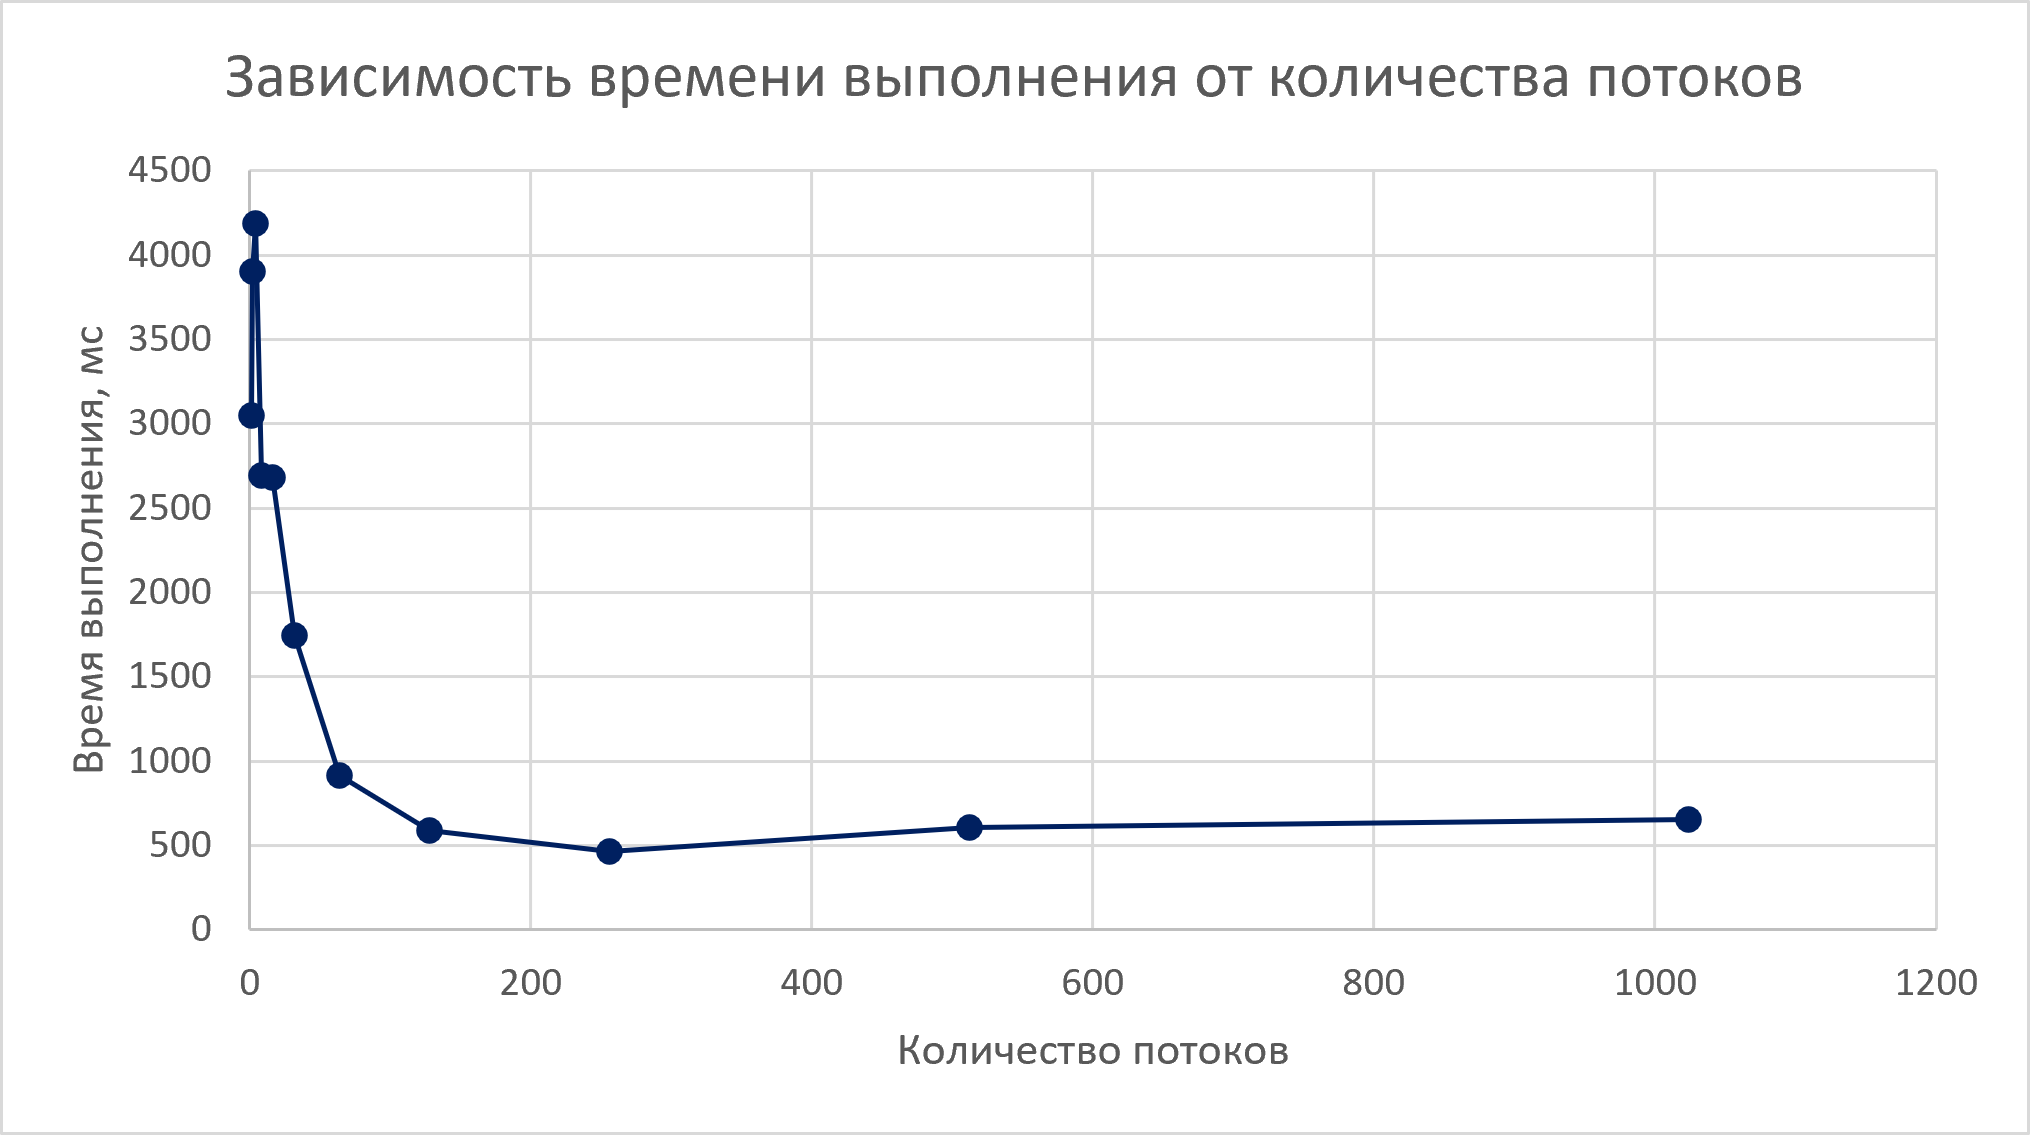
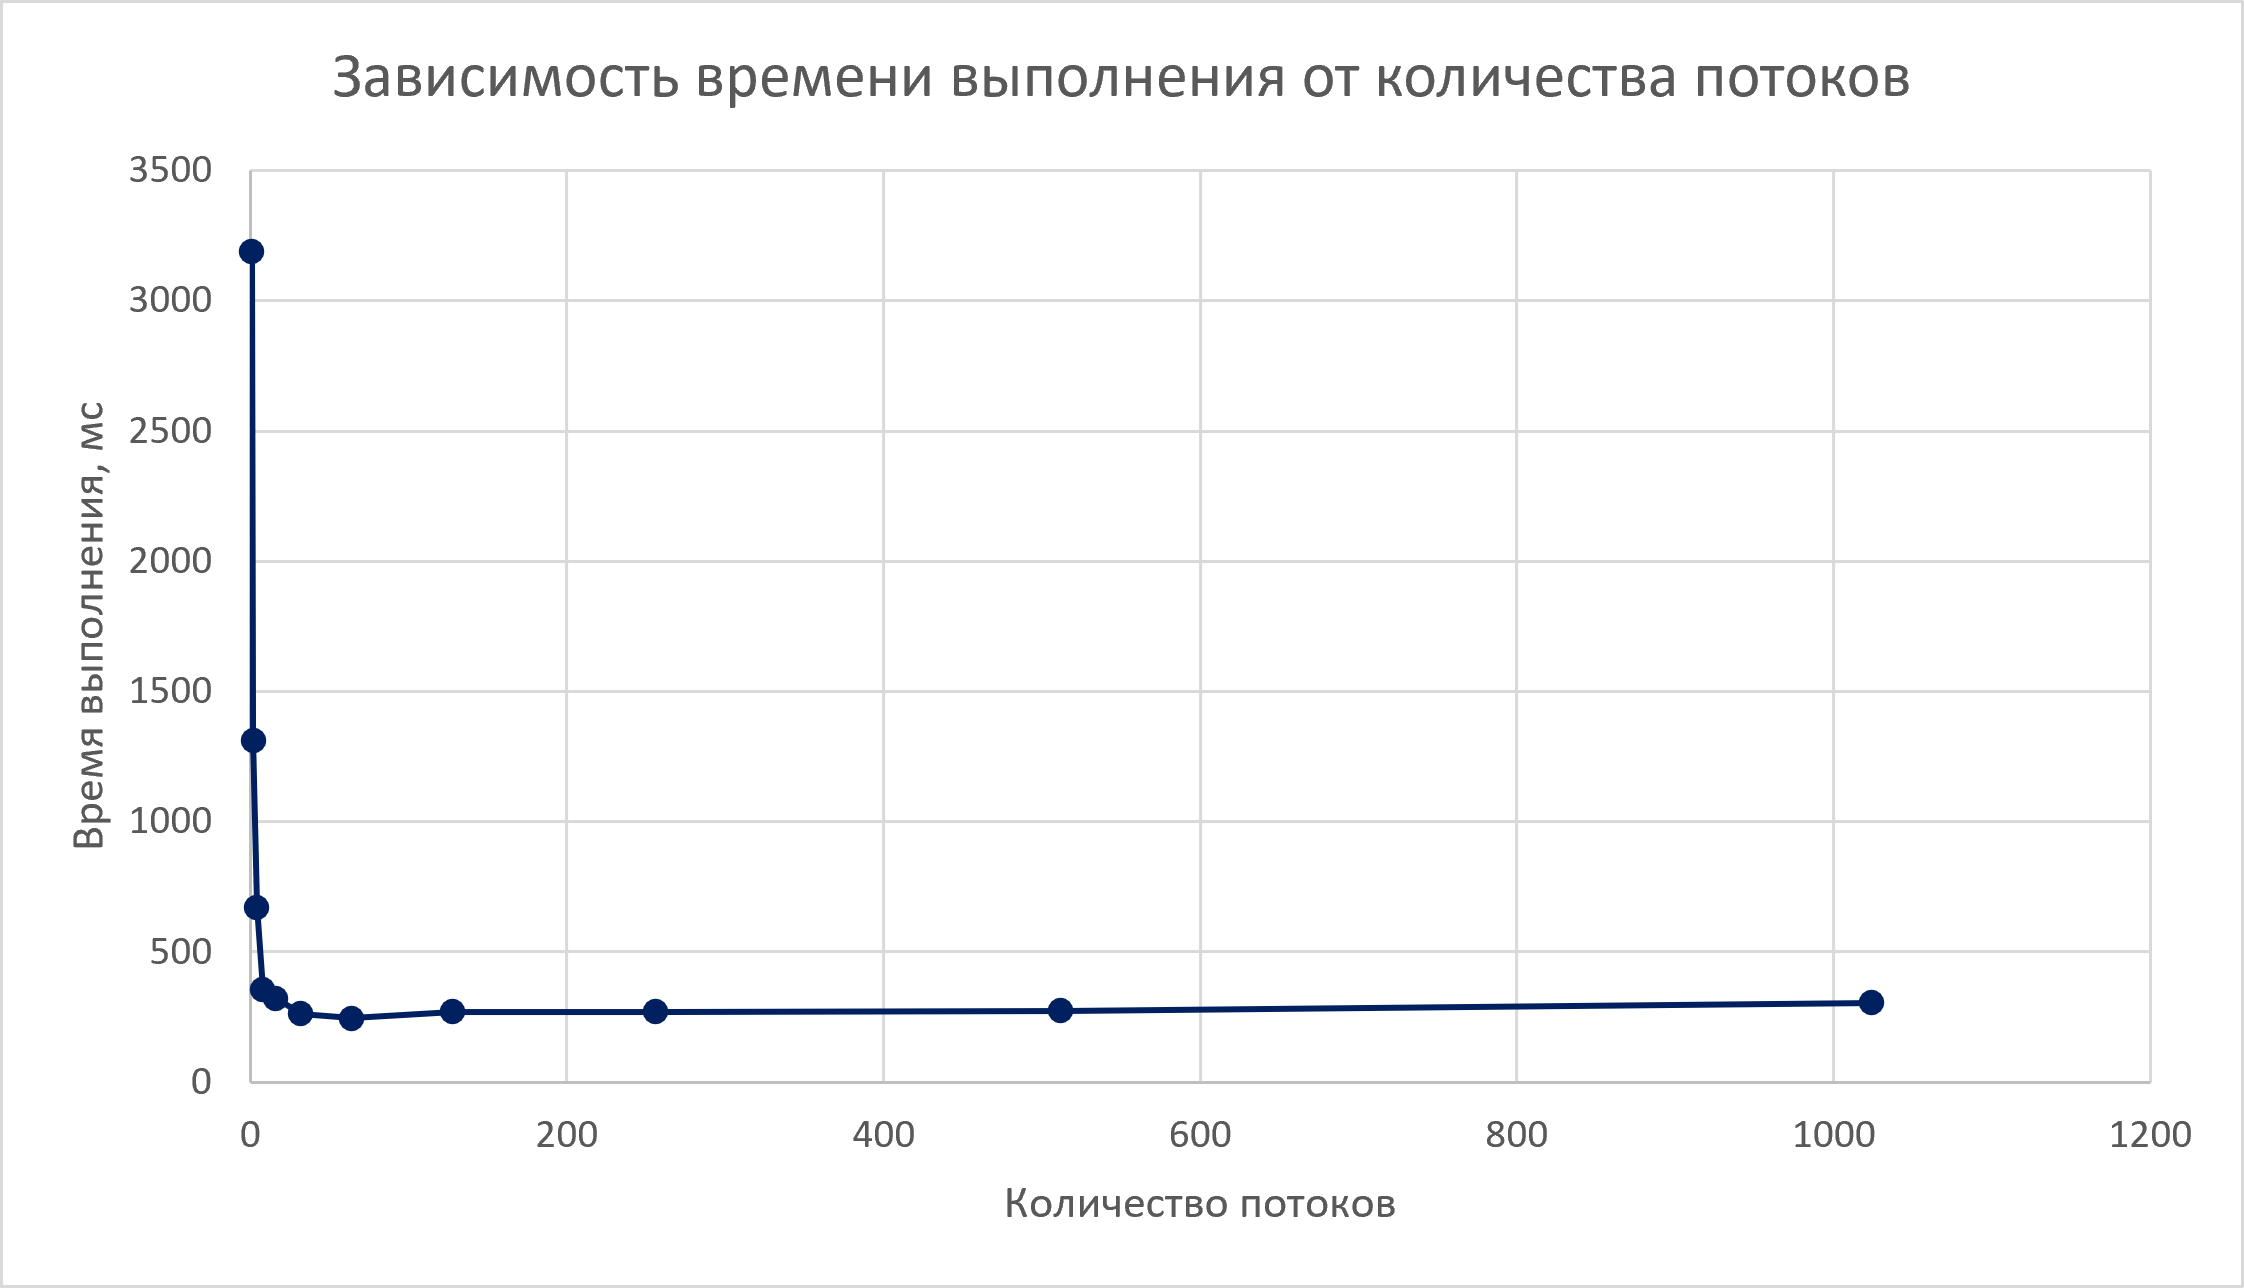
update results

diff --git a/README.md b/README.md
@@ -2,16 +2,16 @@
 
 | Количество потоков | Медианное время, мс |
 |-------------------:|--------------------:|
-| 1                  | 3049 |
-| 2                  | 3901 |
-| 4                  | 4187 |
-| 8                  | 2691 |
-| 16                 | 2684 |
-| 32                 | 1745 |
-| 64                 | 914 |
-| 128                | 591 |
-| 256                | 465 |
-| 512                | 608 |
-| 1024               | 655 |
+| 1                  | 3188 |
+| 2                  | 1313 |
+| 4                  | 672 |
+| 8                  | 355 |
+| 16                 | 323 |
+| 32                 | 263 |
+| 64                 | 245 |
+| 128                | 271 |
+| 256                | 271 |
+| 512                | 274 |
+| 1024               | 305 |
 
 ![График зависимости времени выполнения от количества потоков](graph.png)
